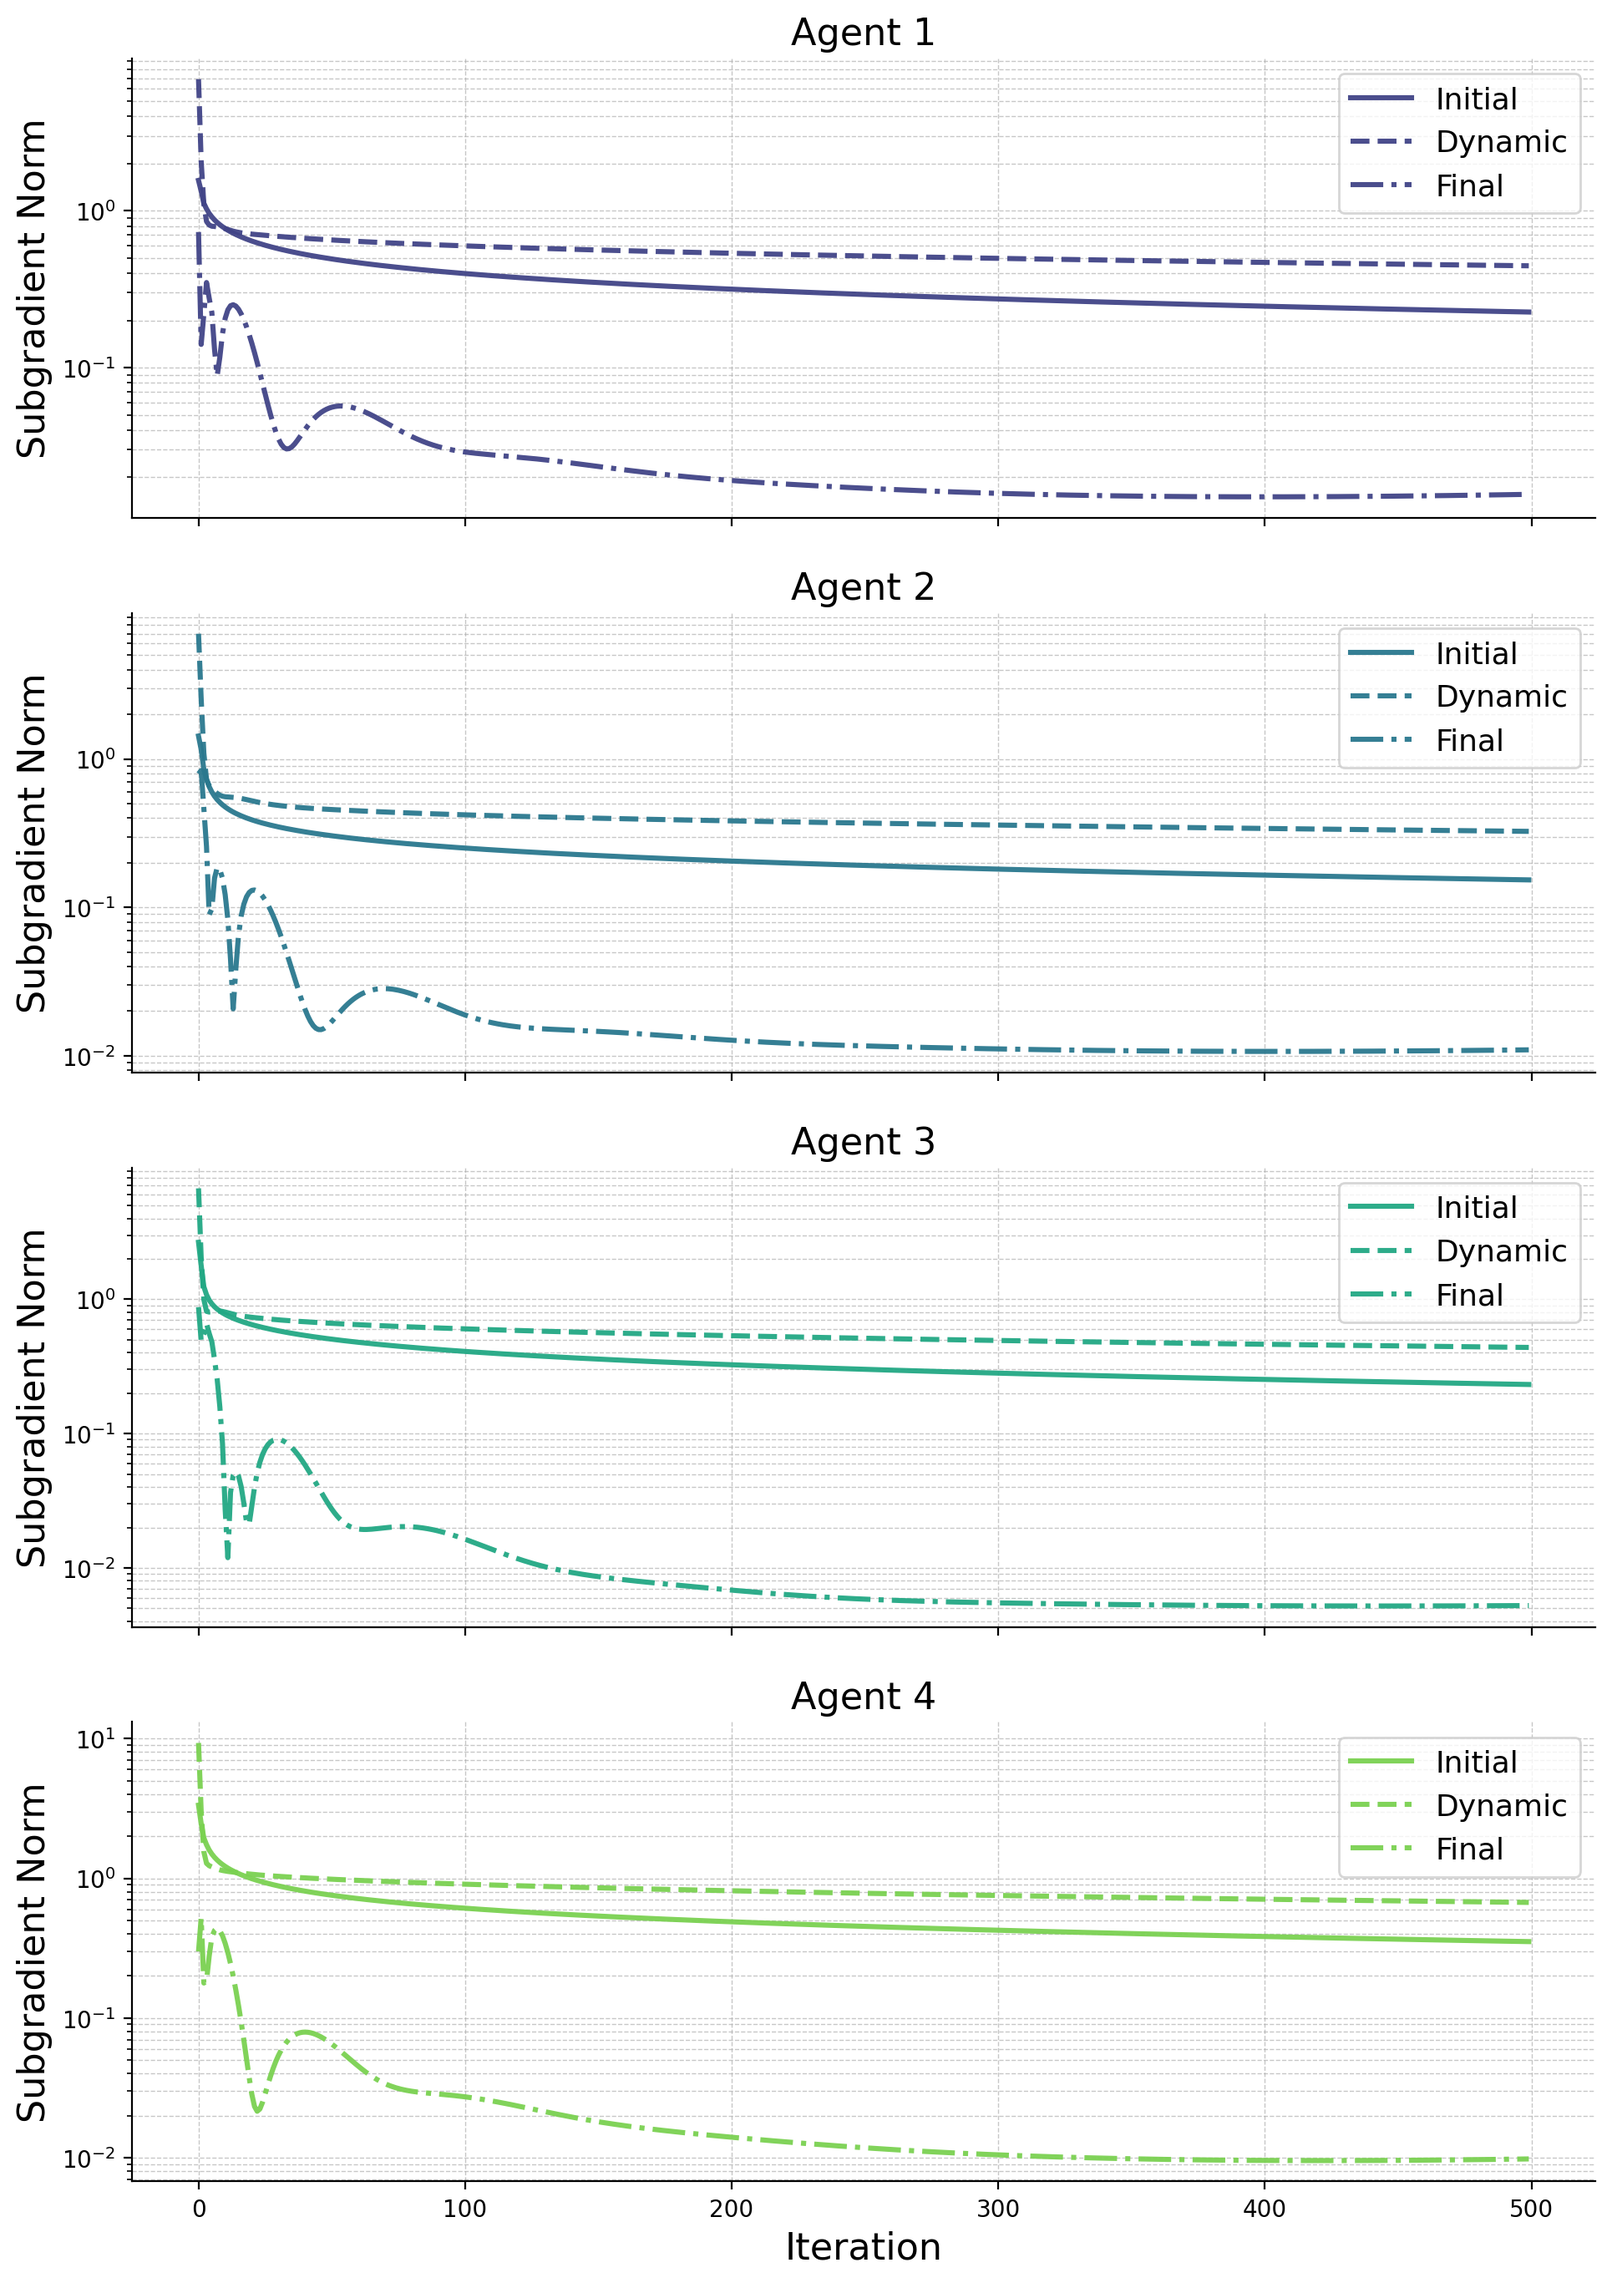
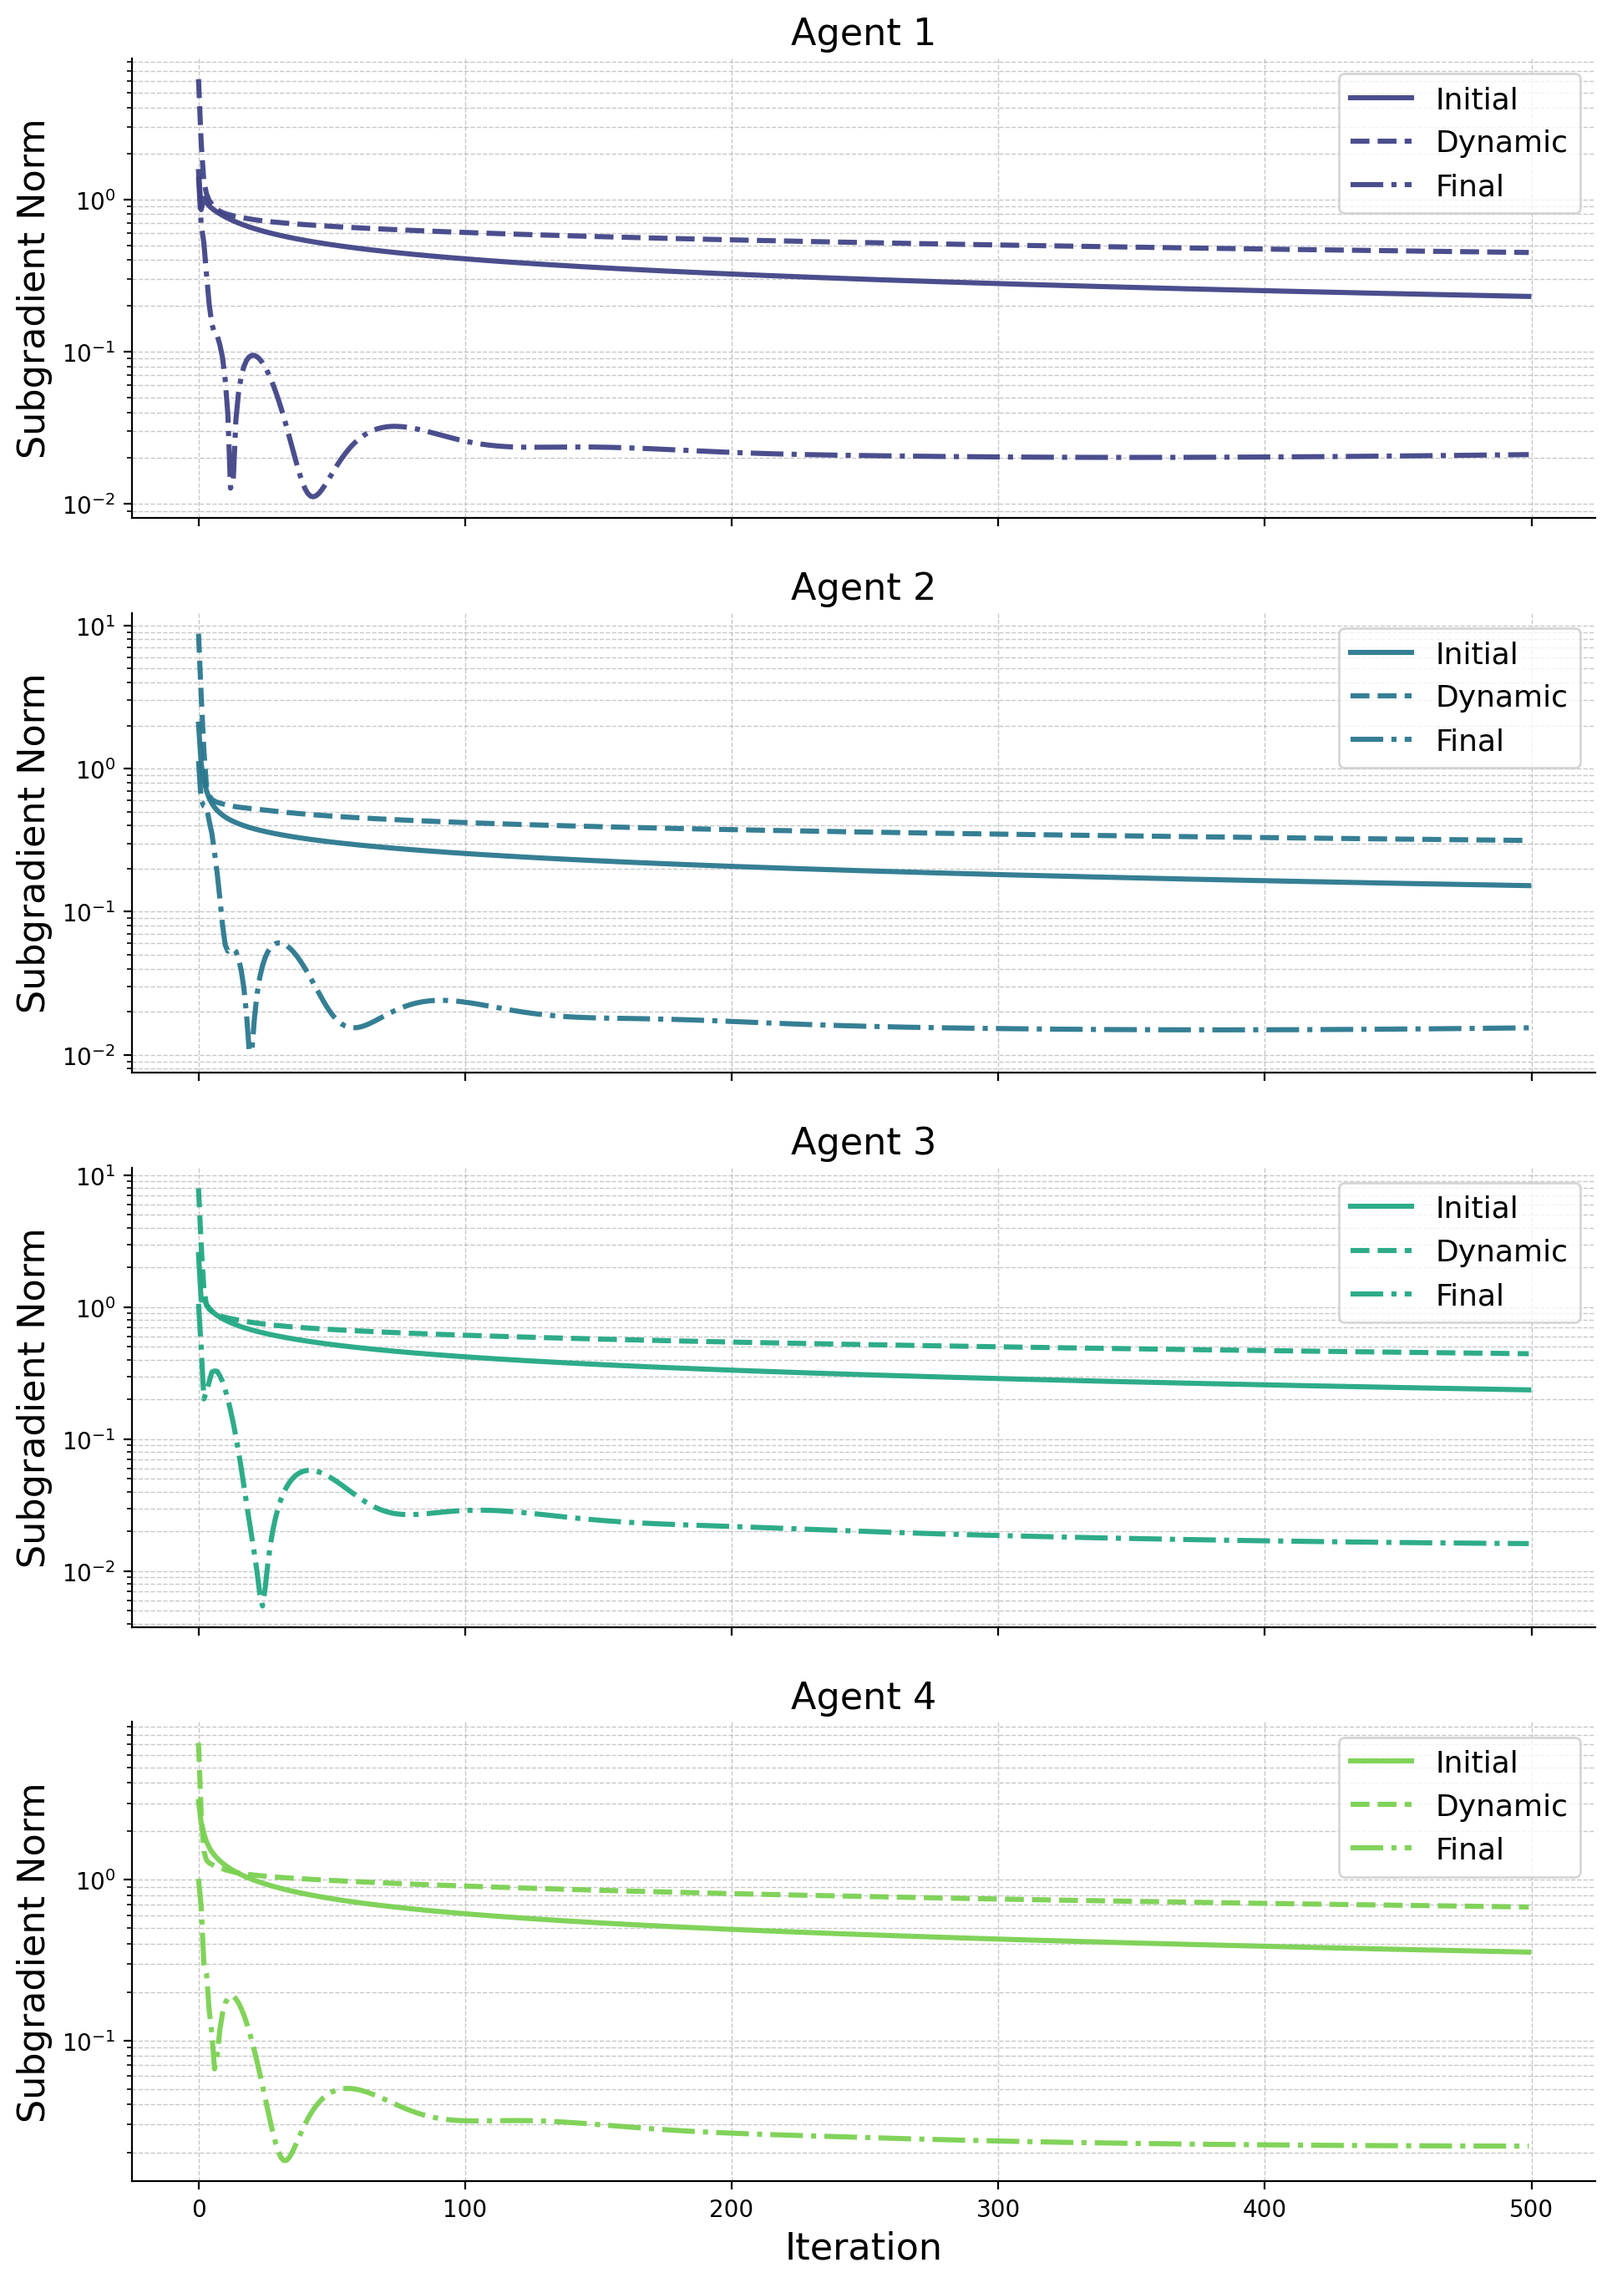
quadratic contraint

diff --git a/agent.py b/agent.py
@@ -73,8 +73,9 @@ class Agent:
         cost = cp.Minimize(lagrange)
 
         subproblem_constraints = [
-            self.u <= self.u_max, 
-            self.u >= -self.u_max
+            # self.u <= self.u_max, 
+            # self.u >= -self.u_max
+            cp.sum_squares(self.u) <= 5*self.u_max**2
             ]
        
         self.local_problem = cp.Problem(cost, subproblem_constraints)
@@ -119,11 +120,18 @@ class Agent:
         self.lmbd_fin_neg.value = lmbd_fin_neg
         # print(f"Local Optimization of Agent {self.id} has started")
         result = self.local_problem.solve(verbose=False, solver=cp.SCS)
+        # Gurobi for QCQP
+        # result = self.local_problem.solve(verbose=False, solver=cp.GUROBI)
         # print(f"Solver status: {self.local_problem.status}")
         # print(f"Solver optimal cost: {self.local_problem.value}")
         # print(f"Solver result: {result}")
         x = self.x.value
         u = self.u.value
+
+        # Print the left and right hand side of the constraint
+        lhs = np.sum(u**2)
+        rhs = 5 * self.u_max**2
+        print(f"Constraint check: sum_squares(u) = {lhs}, 5*u_max^2 = {rhs}")
         # print(self.x.value)
         # print(self.u.value)
 
@@ -166,8 +174,9 @@ class Agent:
         subproblem_constraints = [
             self.x[:, 1:] == (self.A @ self.x[:, :-1] + self.B @ self.u),
             self.x[:, 0:1] == self.x0,
-            self.u <= self.u_max, 
-            self.u >= -self.u_max
+            # self.u <= self.u_max, 
+            # self.u >= -self.u_max
+            cp.sum_squares(self.u) <= 1/5*self.u_max**2
             ]
        
         self.local_admm_problem = cp.Problem(cost, subproblem_constraints)
@@ -179,12 +188,18 @@ class Agent:
         self.rho.value = rho
         # print(f"Local Optimization of Agent {self.id} has started")
         self.local_admm_problem.solve(verbose=False, solver=cp.SCS)
+        # Gurobi for QCQP
+        # result = self.local_problem.solve(verbose=False, solver=cp.GUROBI)
         # print(f"Solver status: {self.local_admm_problem.status}")
         # print(f"Solver optimal cost: {self.local_admm_problem.value}")
         x = self.x.value
         u = self.u.value
         # print(self.x.value)
         # print(self.u.value)
+        # Print the left and right hand side of the constraint
+        lhs = np.sum(u**2)
+        rhs = self.u_max**2
+        print(f"Constraint check: sum_squares(u) = {lhs}, 5*u_max^2 = {rhs}")
 
         # Plot and save the x trajectory
         if self.iter_counter % 1000 == 0:

diff --git a/centralised_problem.py b/centralised_problem.py
@@ -62,8 +62,9 @@ for i in range(n_agent):
     # Add constraint on terminal state
     constraints.append(x[i][:, -1] == x_f)
     # Add conraints on input magnitude
-    constraints.append(u[i] <=  umax)
-    constraints.append(u[i] >= -umax)
+    # constraints.append(u[i] <=  umax)
+    # constraints.append(u[i] >= -umax)
+    cp.sum_squares(u[i]) <= 1/5*umax**2
 
 
 
@@ -169,7 +170,7 @@ for agent in range(n_agent):
     axs[agent].legend(handles, labels, fontsize=16)
     axs[agent].grid(True)
 plt.tight_layout()
-plt.savefig("centralised_distributed_state_comp_admm_1.png")
+plt.savefig("centralised_distributed_state_comp_u_const.png")
 plt.show()
 
 # Plot input trajectories: all agents stacked vertically, same aspect as previous plots
@@ -207,7 +208,7 @@ for agent in range(n_agent):
     axs[agent].legend(handles, labels, fontsize=16)
     axs[agent].grid(True)
 plt.tight_layout()
-plt.savefig("centralised_distributed_input_comp_admm_1.png")
+plt.savefig("centralised_distributed_input_u_const.png")
 plt.show()
 
 

diff --git a/coordinator.py b/coordinator.py
@@ -112,7 +112,7 @@ class Coordinator:
         # self.consensus_iteration_number_analysis()
         # self.rho_analysis()
         for _ in range(self.n_iter):
-            self.nesterov_sugradient_step()
+            self.consensus_admm(7)
 
         # Save x and u as numpy arrays after the iterations
         self.x = np.array(self.x)
@@ -352,7 +352,7 @@ class Coordinator:
 
 
             # Update dual variables
-            alpha = param #self.alpha_sq(self.iter_counter, param)
+            alpha = self.alpha_sq(self.iter_counter, param)
             self.lmbd_ini[i, :, :] += alpha * initial_cond_subg
             self.lmbd_dyn[i, :, :] += alpha * dynamic_evol_subg
             self.lmbd_fin[i, :, :] += alpha * final_state_pos_subg
